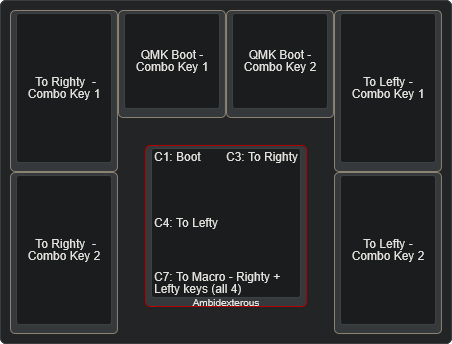
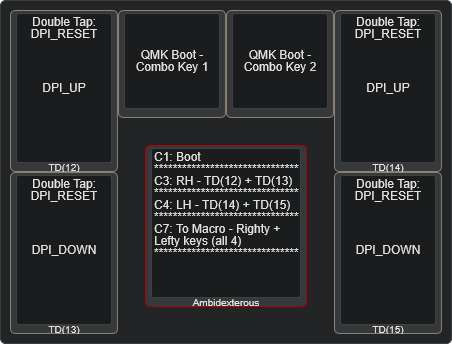
add dpi adjustments (up/down/reset), tweak custom keys lightly, update base layer to allow dpi adjustments, tweak layout for underlying updates

diff --git a/qmk/users/kemonine/adept/keyboards/ploopyco/ploopyco.c b/qmk/users/kemonine/adept/keyboards/ploopyco/ploopyco.c
@@ -132,8 +132,30 @@ void toggle_drag_scroll(void) {
     is_drag_scroll ^= 1;
 }
 
-void cycle_dpi(void) {
-    keyboard_config.dpi_config = (keyboard_config.dpi_config + 1) % DPI_OPTION_SIZE;
+void cycle_dpi_reset(void) {
+    cycle_dpi_val(PLOOPY_DPI_DEFAULT);
+}
+
+void cycle_dpi_up(void) {
+    uint8_t new_val = keyboard_config.dpi_config + 1;
+    // no rollover for value, use `0` for rollover
+    if (new_val >= DPI_OPTION_SIZE) {
+        new_val = DPI_OPTION_SIZE - 1;
+    }
+    cycle_dpi_val(new_val);
+}
+
+void cycle_dpi_down(void) {
+    uint8_t new_val = (keyboard_config.dpi_config - 1);
+    // no rollover for value, use `DPI_OPTION_SIZE - 1` for rollover
+    if (new_val < 0) {
+        new_val = 0;
+    }
+    cycle_dpi_val(new_val);
+}
+
+void cycle_dpi_val(uint8_t new_val) {
+    keyboard_config.dpi_config = new_val;
     eeconfig_update_kb(keyboard_config.raw);
     pointing_device_set_cpi(dpi_array[keyboard_config.dpi_config]);
 }
@@ -183,8 +205,16 @@ bool process_record_kb(uint16_t keycode, keyrecord_t* record) {
         return false;
     }
 
-    if (keycode == DPI_CONFIG && record->event.pressed) {
-        cycle_dpi();
+    if (keycode == DPI_UP && record->event.pressed) {
+        cycle_dpi_up();
+    }
+
+    if (keycode == DPI_DOWN && record->event.pressed) {
+        cycle_dpi_down();
+    }
+
+    if (keycode == DPI_RESET && record->event.pressed) {
+        cycle_dpi_reset();
     }
 
     if (keycode == DRAG_SCROLL) {
@@ -198,7 +228,8 @@ bool process_record_kb(uint16_t keycode, keyrecord_t* record) {
     }
 
     // No Op custom key codes
-    if (keycode == BOOT_COMBO_1
+    if (keycode == NO_OP
+        || keycode == BOOT_COMBO_1
         || keycode == BOOT_COMBO_2
         || keycode == LAYER_BASE_COMBO_1
         || keycode == LAYER_BASE_COMBO_2

diff --git a/qmk/users/kemonine/adept/keyboards/ploopyco/madromys/keymaps/vial_kmn/config.h b/qmk/users/kemonine/adept/keyboards/ploopyco/madromys/keymaps/vial_kmn/config.h
@@ -6,3 +6,13 @@
 
 #define VIAL_UNLOCK_COMBO_ROWS { 0, 0 }
 #define VIAL_UNLOCK_COMBO_COLS { 3, 5 }
+
+// Set personal DPI options
+// slow but precise: 400 
+// reasonable speed & precise: 600
+// good speed & slightly not precise: 800
+#define PLOOPY_DPI_OPTIONS { 400, 600, 800, 1200, 1600, 2400 }
+#define PLOOPY_DPI_DEFAULT 2
+
+// My brain needs drag scroll inverted from the default
+#define PLOOPY_DRAGSCROLL_INVERT 1

diff --git a/qmk/users/kemonine/adept/keyboards/ploopyco/ploopyco.h b/qmk/users/kemonine/adept/keyboards/ploopyco/ploopyco.h
@@ -31,8 +31,11 @@ extern keyboard_config_t keyboard_config;
 extern uint16_t          dpi_array[];
 
 enum ploopy_keycodes {
-    DPI_CONFIG = QK_KB_0,
+    NO_OP = QK_KB_0,
     DRAG_SCROLL,
+    DPI_RESET,
+    DPI_UP,
+    DPI_DOWN,
     BOOT_COMBO_1,
     BOOT_COMBO_2,
     LAYER_BASE_COMBO_1,

diff --git a/qmk/users/kemonine/adept/keyboards/ploopyco/madromys/keymaps/vial_kmn/keymap.c b/qmk/users/kemonine/adept/keyboards/ploopyco/madromys/keymaps/vial_kmn/keymap.c
@@ -18,5 +18,5 @@
 #include QMK_KEYBOARD_H
 
 const uint16_t PROGMEM keymaps[][MATRIX_ROWS][MATRIX_COLS] = {
-    [0] = LAYOUT( KC_BTN4, KC_BTN5, DRAG_SCROLL, KC_BTN2, KC_BTN1, KC_BTN3 )
+    [0] = LAYOUT( KC_BTN2, DRAG_SCROLL, DRAG_SCROLL, KC_BTN2, KC_BTN1, KC_BTN1 )
 };

diff --git a/qmk/users/kemonine/adept/README.md b/qmk/users/kemonine/adept/README.md
@@ -16,6 +16,10 @@ docker run --rm -it `
 qmkfm/qmk_cli:latest
 ```
 
+## Boot Mode
+
+Hold lower left button when powering on or boot combo from personal vial config.
+
 ## Prep
 
 ### Sources
